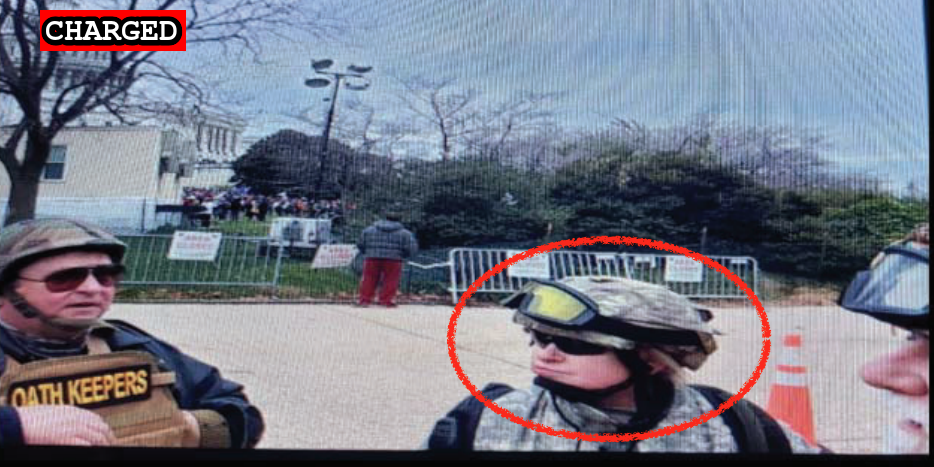
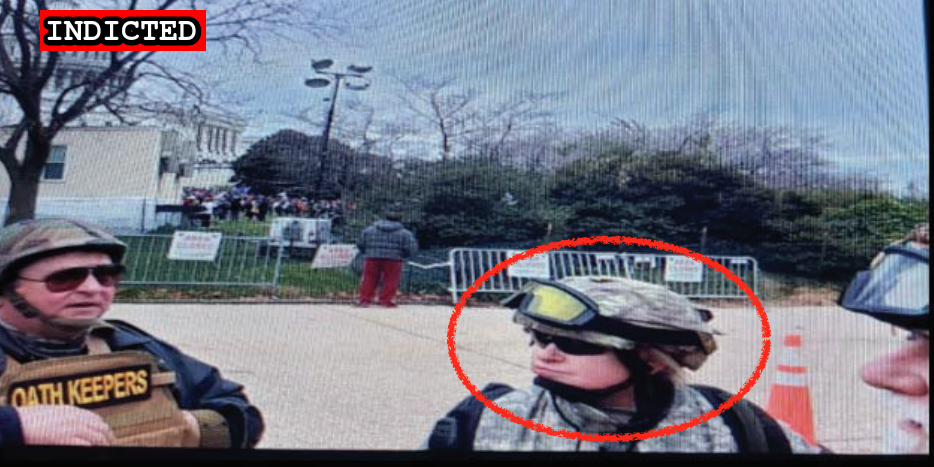
DOJ updates

Changed region(s): [[0.031, 0.0, 0.2484, 0.1199]]

diff --git a/docs/_suspects/mark-aungst.md b/docs/_suspects/mark-aungst.md
@@ -25,12 +25,14 @@ author: seditiontrack
 layout: suspect
 published: true
 charges:
- - name: Unlawful entry on restricted building or grounds
-   code: 18 USC 1752
-   link: https://www.law.cornell.edu/uscode/text/18/1752
- - name: Violent entry or disorderly conduct on Capitol grounds
-   code: 40 USC 5104
-   link: https://www.law.cornell.edu/uscode/text/40/5104
+  - name: Unlawful entry on restricted building or grounds
+    code: 18 USC 1752
+    link: https://www.law.cornell.edu/uscode/text/18/1752
+  - name: Violent entry or disorderly conduct on Capitol grounds
+    code: 40 USC 5104
+    link: https://www.law.cornell.edu/uscode/text/40/5104
 ---
+
 - [News Report](https://www.pennlive.com/news/2021/02/lycoming-county-man-woman-charged-with-breaking-into-the-us-capitol-during-riot.html)
 - [Complaint](https://extremism.gwu.edu/sites/g/files/zaxdzs2191/f/Mark%20Aungst%20and%20Tammy%20Bronsburg%20Criminal%20Complaint.pdf)
+- [Statement of Facts](https://www.justice.gov/usao-dc/case-multi-defendant/file/1365926/download)

diff --git a/docs/_suspects/sandra-parker.md b/docs/_suspects/sandra-parker.md
@@ -3,11 +3,11 @@ name: Sandra Parker
 lastName: Parker
 aka:
 residence: Ohio
-status: Charged
+status: Indicted
 date: 2021-02-18
 charged: 2021-02-18
-indicted:
-age: 60
+indicted: 2021-02-19
+age: 62
 occupation:
 affiliations: Oath Keepers, Ohio Regular Militia
 jurisdiction: Federal
@@ -30,3 +30,5 @@ charges:
 - [News Story](https://www.dispatch.com/story/news/politics/state/2021/02/19/capitol-arrests-warren-county-couple-charged-jan-6-insurrection/4500408001/)
 - [Complaint](https://htv-prod-media.s3.amazonaws.com/files/morrow-couple-1613747755.pdf)
 - [Statement of Facts](https://htv-prod-media.s3.amazonaws.com/files/morrow-couple-1613747755.pdf)
+- [Indictment](https://www.justice.gov/usao-dc/case-multi-defendant/file/1369071/download)
+- [DOJ Press Release](https://www.justice.gov/usao-dc/pr/six-individuals-affiliated-oath-keepers-indicted-federal-grand-jury-conspiracy-obstruct)

diff --git a/docs/_suspects/bennie-parker.md b/docs/_suspects/bennie-parker.md
@@ -3,10 +3,10 @@ name: Bennie Parker
 lastName: Parker
 aka:
 residence: Ohio
-status: Charged
+status: Indicted
 date: 2021-02-18
 charged: 2021-02-18
-indicted:
+indicted: 2021-02-19
 age: 70
 occupation:
 affiliations: Oath Keepers, Ohio Regular Militia
@@ -30,3 +30,5 @@ charges:
 - [News Story](https://www.dispatch.com/story/news/politics/state/2021/02/19/capitol-arrests-warren-county-couple-charged-jan-6-insurrection/4500408001/)
 - [Complaint](https://htv-prod-media.s3.amazonaws.com/files/morrow-couple-1613747755.pdf)
 - [Statement of Facts](https://htv-prod-media.s3.amazonaws.com/files/morrow-couple-1613747755.pdf)
+- [Indictment](https://www.justice.gov/usao-dc/case-multi-defendant/file/1369071/download)
+- [DOJ Press Release](https://www.justice.gov/usao-dc/pr/six-individuals-affiliated-oath-keepers-indicted-federal-grand-jury-conspiracy-obstruct)

diff --git a/docs/_suspects/tammy-bronsburg.md b/docs/_suspects/tammy-bronsburg.md
@@ -34,3 +34,4 @@ charges:
 ---
 - [News Report](https://www.northcentralpa.com/news/two-lycoming-county-individuals-charged-with-breaking-into-u-s-capitol/article_266b3682-67c5-11eb-a73d-9336a612db11.html)
 - [Complaint](https://extremism.gwu.edu/sites/g/files/zaxdzs2191/f/Mark%20Aungst%20and%20Tammy%20Bronsburg%20Criminal%20Complaint.pdf)
+- [Statement of Facts](https://www.justice.gov/usao-dc/case-multi-defendant/file/1365926/download)
